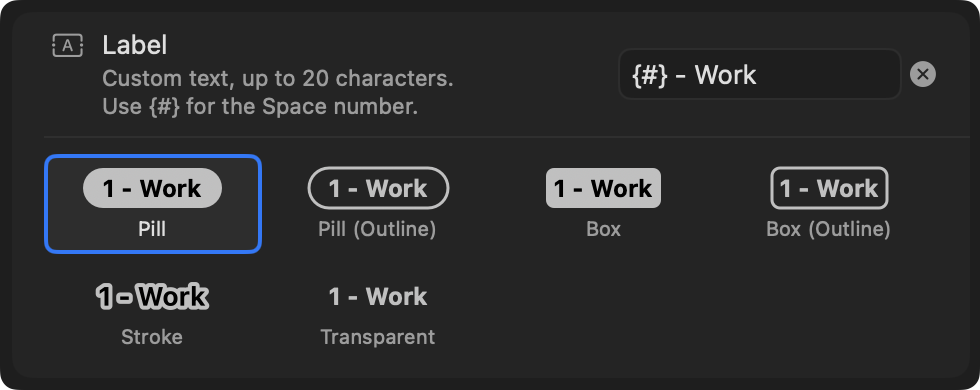
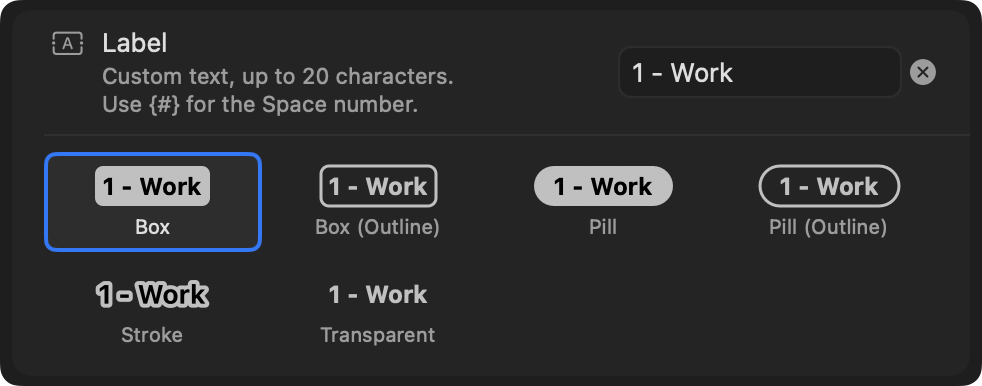
Release v1.2.15

diff --git a/README.md b/README.md
@@ -80,7 +80,7 @@ brew install --cask whichspace
 
 #### Choose foreground and background colors for each Space, or apply one color to all Spaces
 
-<img src="Screenshots/SectionColor.png" width="60%">
+<img src="Screenshots/SectionColor.png" width="500">
 
 ---
 
@@ -88,7 +88,7 @@ brew install --cask whichspace
 
 #### Choose from a variety of icons for each Space, or apply one icon to all Spaces
 
-<img src="Screenshots/SectionNumber.png" width="60%">
+<img src="Screenshots/SectionNumber.png" width="500">
 
 ---
 
@@ -96,11 +96,11 @@ brew install --cask whichspace
 
 #### Use custom symbols instead of numbers for a more personalised look
 
-<img src="Screenshots/PickerSymbol.png" width="60%">
+<img src="Screenshots/PickerSymbol.png" width="500">
 
 #### Or pick an emoji instead
 
-<img src="Screenshots/PickerEmoji.png" width="60%">
+<img src="Screenshots/PickerEmoji.png" width="500">
 
 ---
 
@@ -108,7 +108,7 @@ brew install --cask whichspace
 
 #### Add a small character next to the Space number
 
-<img src="Screenshots/SectionBadge.png" width="60%">
+<img src="Screenshots/SectionBadge.png" width="500">
 
 > [!NOTE]
 > Use `#` as the badge character to insert the current Space number.
@@ -119,7 +119,7 @@ brew install --cask whichspace
 
 #### Replace Space numbers with custom text labels
 
-<img src="Screenshots/SectionLabel.png" width="60%">
+<img src="Screenshots/SectionLabel.png" width="500">
 
 > [!NOTE]
 > Use `{#}` in a label to insert the current Space number, e.g. `{#} - Work` → `3 - Work`.
@@ -130,7 +130,7 @@ brew install --cask whichspace
 
 #### Adjust the scale and padding of the icons in the menu bar
 
-<img src="Screenshots/SectionSize.png" width="60%">
+<img src="Screenshots/SectionSize.png" width="500">
 
 ---
 
@@ -138,7 +138,7 @@ brew install --cask whichspace
 
 #### Choose a custom font for each Space, or apply one font to all Spaces
 
-<img src="Screenshots/SectionFont.png" width="60%">
+<img src="Screenshots/SectionFont.png" width="500">
 
 ---
 
@@ -146,7 +146,7 @@ brew install --cask whichspace
 
 #### Switch Spaces or move windows with global keyboard shortcuts
 
-<img src="Screenshots/SectionKeybinds.png" width="60%">
+<img src="Screenshots/SectionKeybinds.png" width="500">
 
 > [!NOTE]
 > The **Window** shortcuts move the front window between Spaces.
@@ -159,7 +159,7 @@ brew install --cask whichspace
 
 #### Play a sound when switching Spaces
 
-<img src="Screenshots/SectionSound.png" width="60%">
+<img src="Screenshots/SectionSound.png" width="500">
 
 Choose from built-in macOS system sounds, or add your own custom sounds.
 
